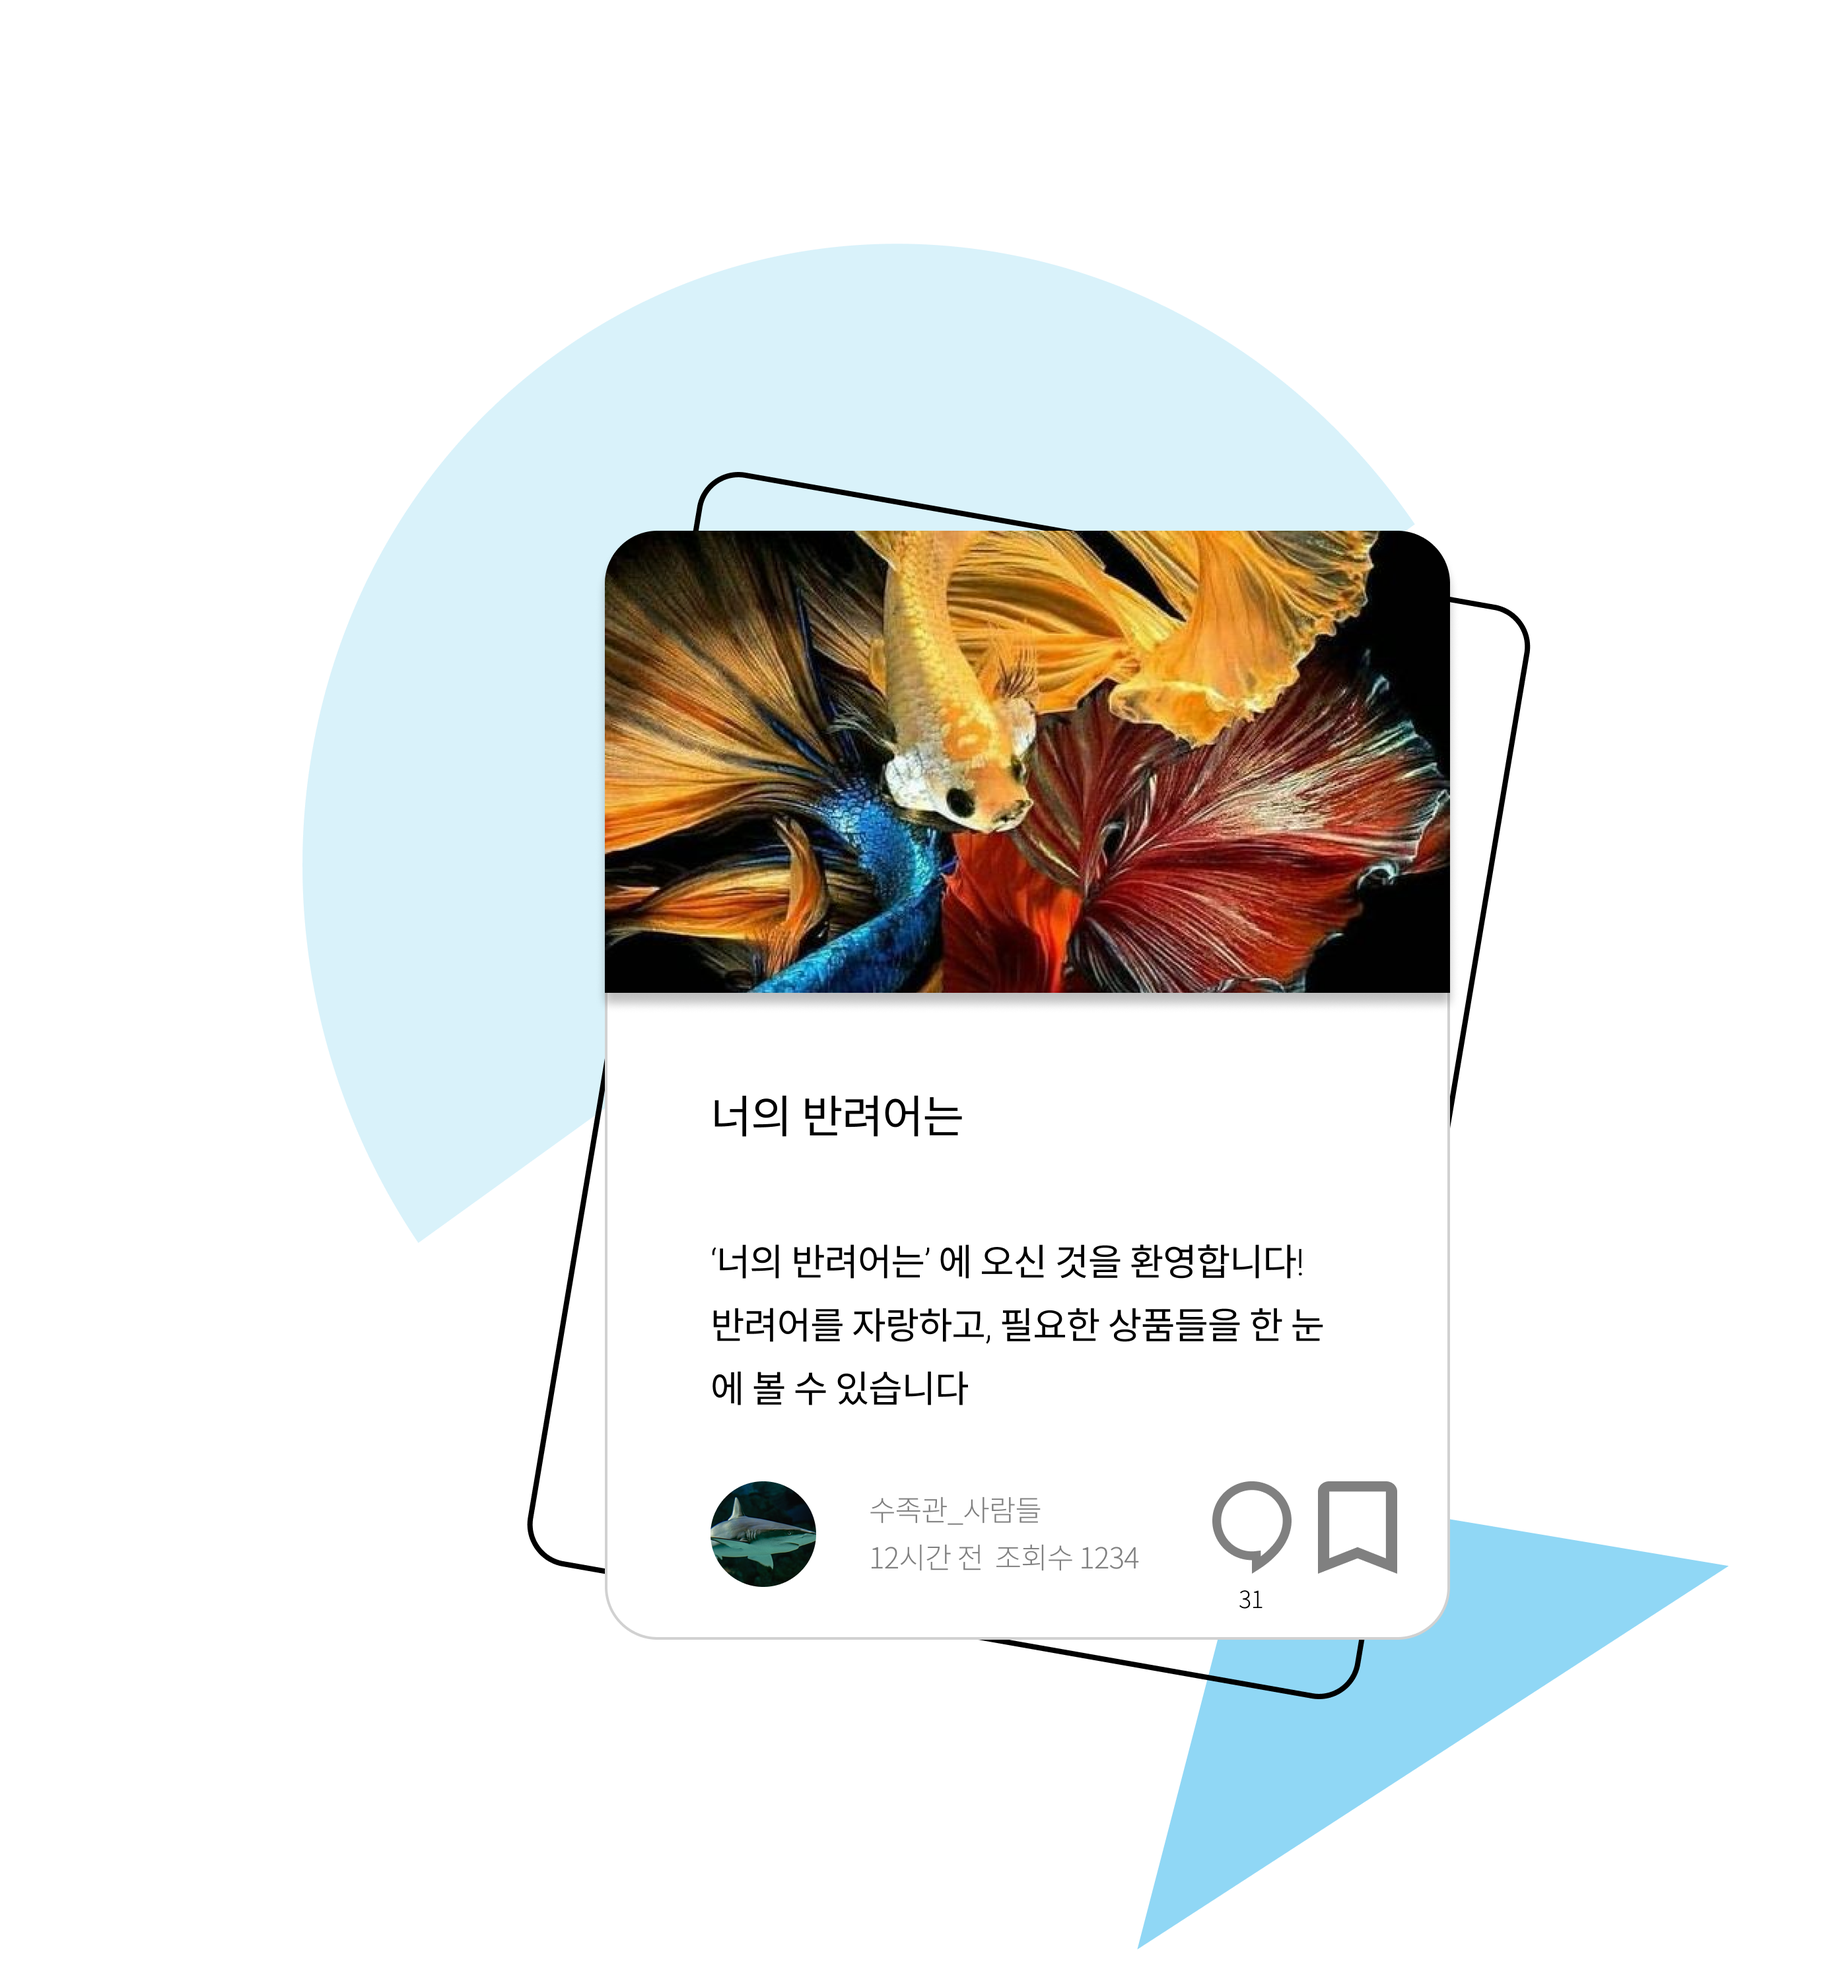
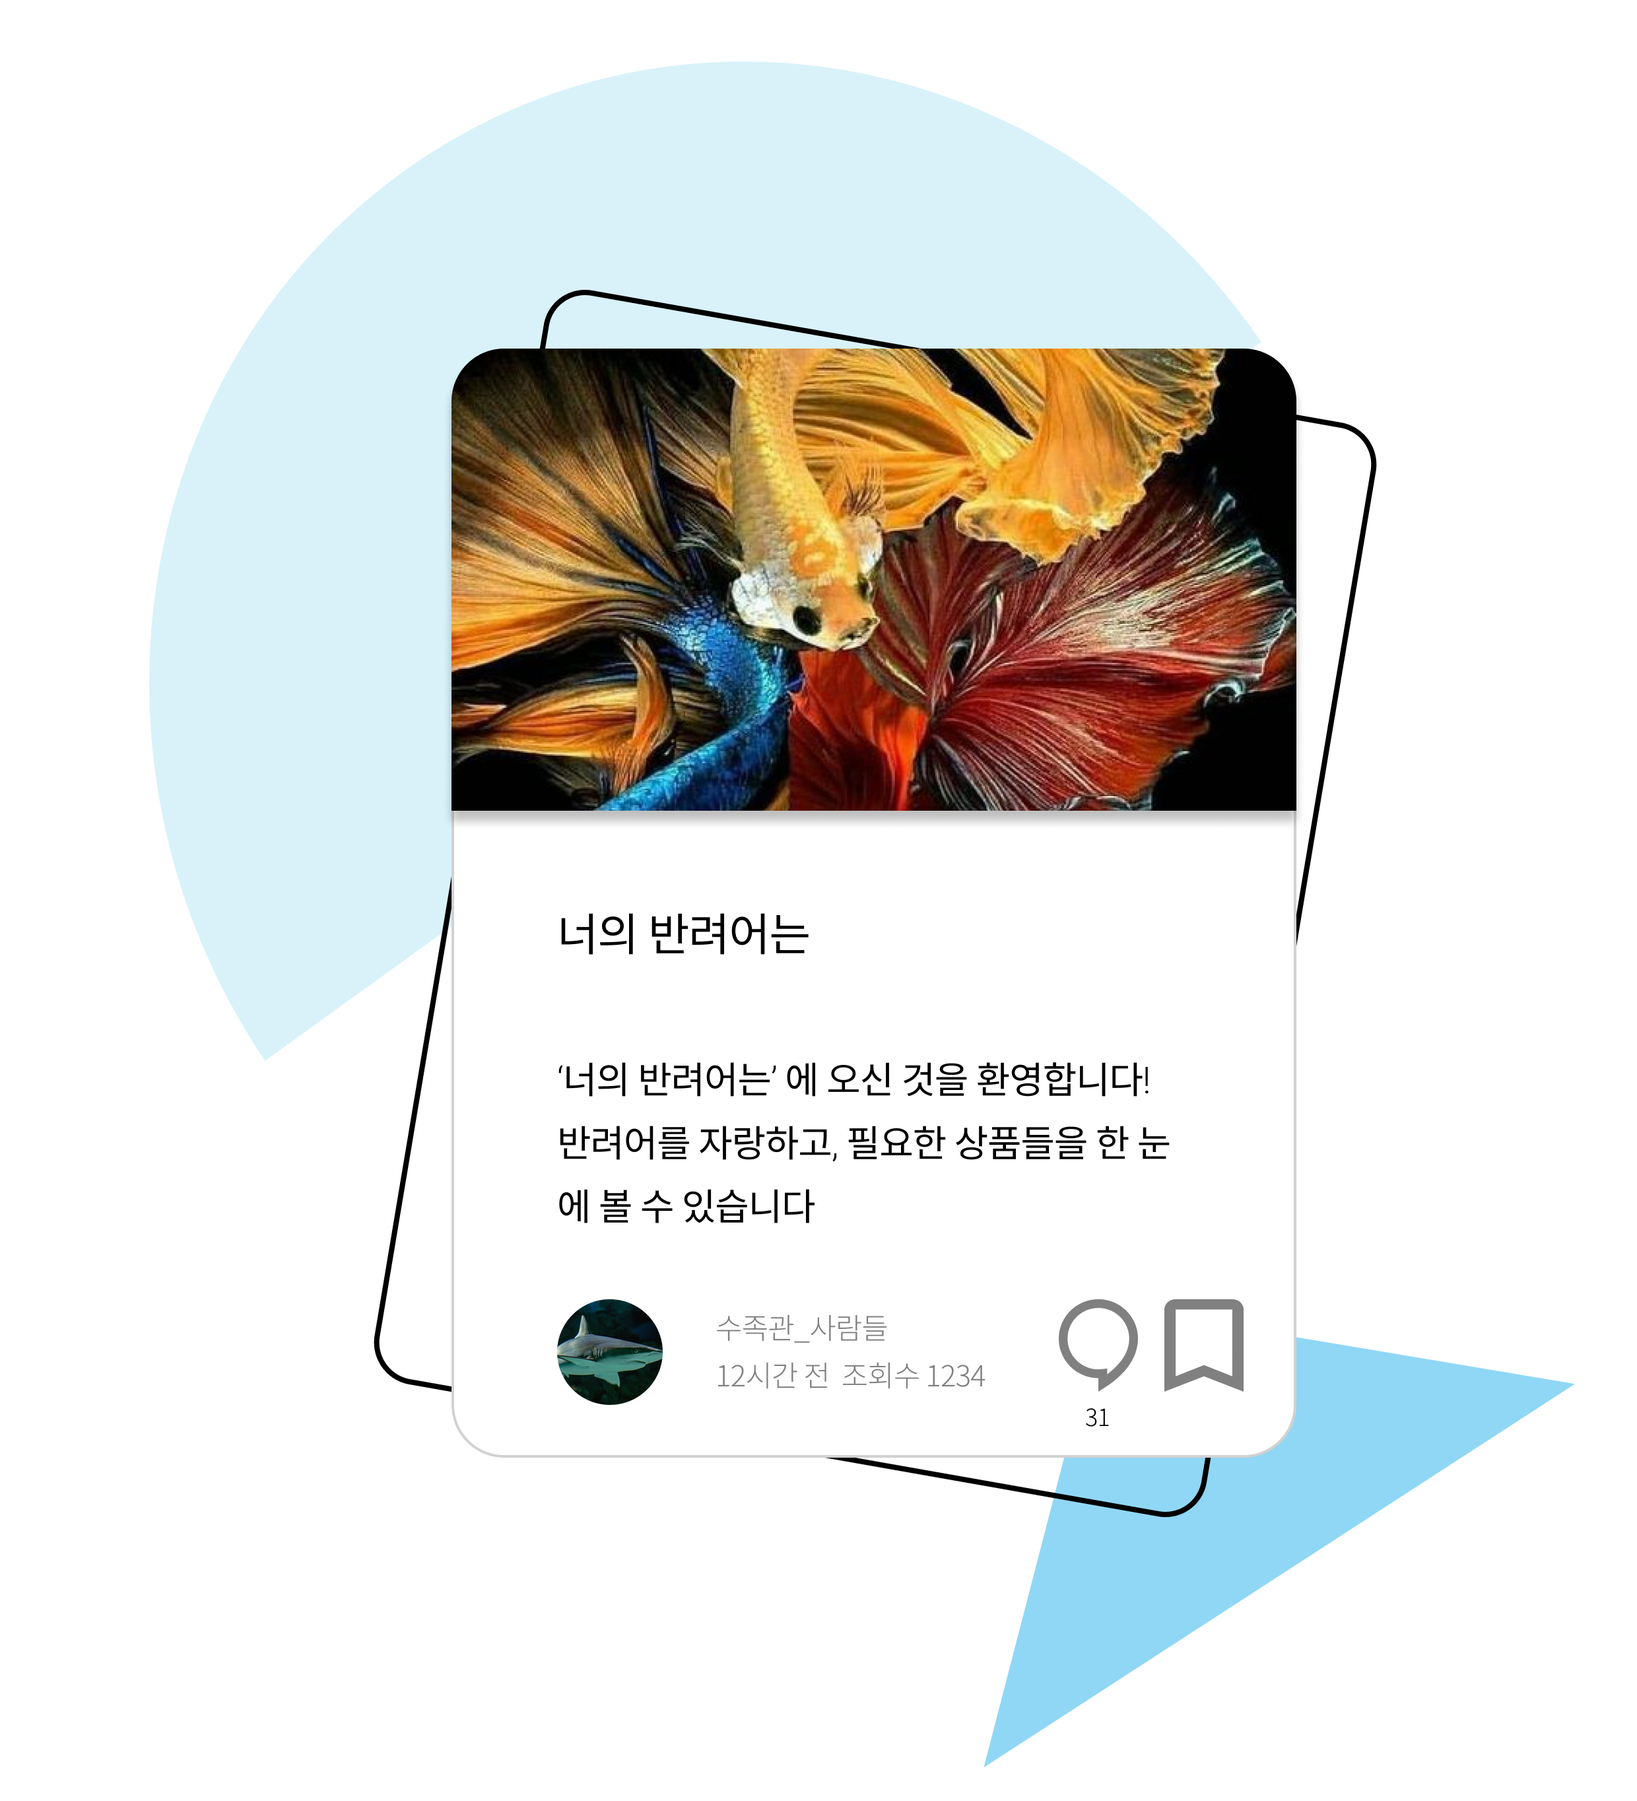
유저피드 UI 배치 완료

Changed region(s): [[0.0931, 0.0312, 0.9625, 0.9971], [0.2484, 0.6543, 0.3415, 0.8101], [0.2173, 0.6543, 0.2484, 0.7478]]

diff --git a/index.html b/index.html
@@ -54,13 +54,26 @@
                 <div class="section__userfeed__backgroundtext1">반려어 키우다 궁금할 때?</div>
                 <div class="section__userfeed__backgroundtext2">너의 반려어는 이용하자!</div>
             </div>
-            <!-- <img class="section__userfeed__backgroundimage1" src="image/유저피드/gradient-left.png">
-            <img class="section__userfeed__backgroundimage2" src="image/유저피드/backImage.png"> -->
+            <img class="section__userfeed__backgroundimage1" src="image/유저피드/gradient-left.png">
+            <img class="section__userfeed__backgroundimage2" src="image/유저피드/backImage.png">
         </div>
 
         <div class="section__userfeed__main">
             <div class="section__userfeed__main--head">
                 최신 게시글
+            </div>
+            <div class="section__userfeed__main__article">
+                <img class="section__userfeed__main__article--feed" src="image/유저피드/유저피드.png">
+                <img class="section__userfeed__main__article--feed" src="image/유저피드/유저피드.png">
+                <img class="section__userfeed__main__article--feed" src="image/유저피드/유저피드.png">
+
+                <img class="section__userfeed__main__article--feed" src="image/유저피드/유저피드.png">
+                <img class="section__userfeed__main__article--feed" src="image/유저피드/유저피드.png">
+                <img class="section__userfeed__main__article--feed" src="image/유저피드/유저피드.png">
+
+                <img class="section__userfeed__main__article--feed" src="image/유저피드/유저피드.png">
+                <img class="section__userfeed__main__article--feed" src="image/유저피드/유저피드.png">
+                <img class="section__userfeed__main__article--feed" src="image/유저피드/유저피드.png">
             </div>
         </div>
     </section>

diff --git a/css/userfeed.css b/css/userfeed.css
@@ -13,7 +13,7 @@ section {
     display:flex;
     flex-direction: column;
     width: 4%;
-    top: 18%;
+    top: 20%;
     right: 3%;
     background-color: white;
     border-radius: 10px;
@@ -63,6 +63,7 @@ section {
     left: 10%;
     top: 30%;
     font-weight: bold;
+    z-index:15;
 }
 
 .section__userfeed__backgroundtext1 {
@@ -74,26 +75,34 @@ section {
     font-size: 3vmax;
 }
 
-/* .section__userfeed__backgroundimage1 {
+.section__userfeed__backgroundimage1 {
+    position: relative;
+    bottom: 40%;
+    width: 50vw;
+    height: 50vw;
+    z-index: 10;
+}
+
+.section__userfeed__backgroundimage1 {
     position: relative;
     bottom: 33%;
-    width: 37.5%;
-    height: 150%;
+    width: 40vw;
+    height: 60vw;
 }
 
 .section__userfeed__backgroundimage2 {
     position: absolute;
     transition: all 0.7s ease-in-out;
     margin-top: 114px;
-    right: 9%;
-    top: 1%;
-    width: 28%;
-    height: 49%;
+    top: 1.9%;
+    right: 15%;
+    width: 28vw;
+    height: 32vw;
 }
 
 .section__userfeed__backgroundimage2:hover {
     transform: scale(1.15);
-} */
+}
 
 .section__userfeed__main {
     width: 80%;
@@ -104,6 +113,19 @@ section {
     background-color:#D9D9D9;
     box-shadow: 0 1px 20px 0 rgba(0, 0, 0, 0.1);
     border-radius: 10px 10px 0 0;
+}
+
+.section__userfeed__main__article {
+    display: flex;
+    flex-wrap: wrap;
+    justify-content: space-around;
+}
+
+.section__userfeed__main__article--feed {
+    /* 커서 옵션은 나중에 제거 */
+    cursor: pointer;
+    margin-top: 5%;
+    width: 30%
 }
 
 @import url(//fonts.googleapis.com/earlyaccess/notosanskr.css);
